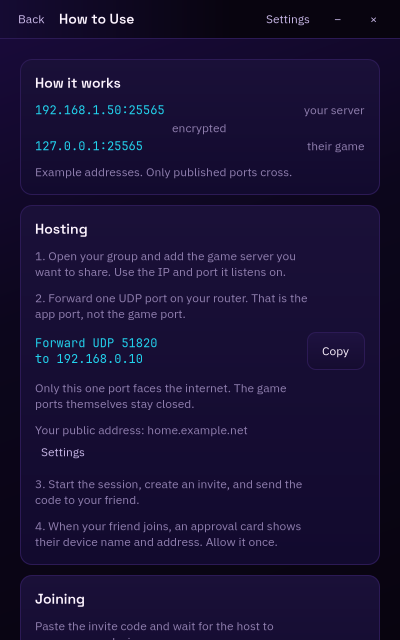
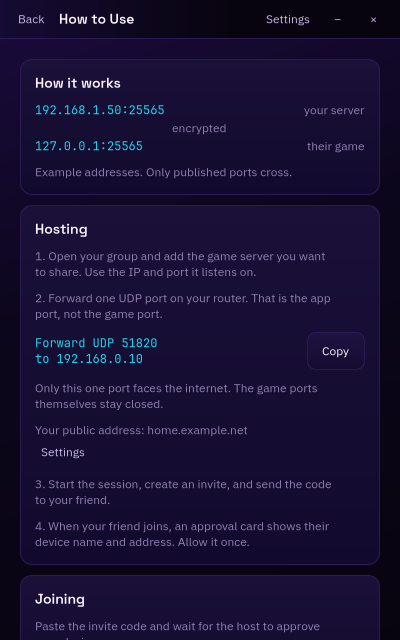
Used the wider 300px measure for guide and group descriptions
Every descriptive paragraph in How to Use, the Host and the Friend screens now shares the same 300px text column, so the lines reach further across the card and the right edge stays consistent. The indented setting descriptions keep their 280px measure.

diff --git a/internal/gtkui/guide.go b/internal/gtkui/guide.go
@@ -33,7 +33,7 @@ func (u *probeUI) buildGuidePage() *gtk.ScrolledWindow {
 	how.Append(gapBox(2))
 	how.Append(guideAddressRow("127.0.0.1:25565", "their game"))
 	how.Append(gapBox(10))
-	how.Append(measuredText("Example addresses. Only published ports cross.", "desc"))
+	how.Append(cardText("Example addresses. Only published ports cross.", "desc"))
 	page.Append(how)
 
 	hosting := gtk.NewBox(gtk.OrientationVertical, 0)
@@ -41,9 +41,9 @@ func (u *probeUI) buildGuidePage() *gtk.ScrolledWindow {
 	hosting.SetMarginBottom(10)
 	hosting.Append(textLabel("Hosting", "card-title"))
 	hosting.Append(gapBox(10))
-	hosting.Append(measuredText("1. Open your group and add the game server you want to share. Use the IP and port it listens on.", "desc"))
+	hosting.Append(cardText("1. Open your group and add the game server you want to share. Use the IP and port it listens on.", "desc"))
 	hosting.Append(gapBox(10))
-	hosting.Append(measuredText("2. Forward one UDP port on your router. That is the app port, not the game port.", "desc"))
+	hosting.Append(cardText("2. Forward one UDP port on your router. That is the app port, not the game port.", "desc"))
 	hosting.Append(gapBox(10))
 
 	copyButton := gtk.NewButtonWithLabel("Copy")
@@ -59,14 +59,14 @@ func (u *probeUI) buildGuidePage() *gtk.ScrolledWindow {
 	ruleRow.Append(copyButton)
 	hosting.Append(ruleRow)
 	hosting.Append(gapBox(10))
-	hosting.Append(measuredText("Only this one port faces the internet. The game ports themselves stay closed.", "desc"))
+	hosting.Append(cardText("Only this one port faces the internet. The game ports themselves stay closed.", "desc"))
 	hosting.Append(gapBox(10))
 
 	addressLine := "No public address set yet. Open Settings and fill it in."
 	if strings.TrimSpace(settings.PublicAddress) != "" {
 		addressLine = "Your public address: " + settings.PublicAddress
 	}
-	hosting.Append(measuredText(addressLine, "desc"))
+	hosting.Append(cardText(addressLine, "desc"))
 	settingsButton := gtk.NewButtonWithLabel("Settings")
 	settingsButton.AddCSSClass("quiet")
 	settingsButton.SetHAlign(gtk.AlignStart)
@@ -75,9 +75,9 @@ func (u *probeUI) buildGuidePage() *gtk.ScrolledWindow {
 	})
 	hosting.Append(settingsButton)
 	hosting.Append(gapBox(10))
-	hosting.Append(measuredText("3. Start the session, create an invite, and send the code to your friend.", "desc"))
+	hosting.Append(cardText("3. Start the session, create an invite, and send the code to your friend.", "desc"))
 	hosting.Append(gapBox(10))
-	hosting.Append(measuredText("4. When your friend joins, an approval card shows their device name and address. Allow it once.", "desc"))
+	hosting.Append(cardText("4. When your friend joins, an approval card shows their device name and address. Allow it once.", "desc"))
 	page.Append(hosting)
 
 	joining := gtk.NewBox(gtk.OrientationVertical, 0)
@@ -85,9 +85,9 @@ func (u *probeUI) buildGuidePage() *gtk.ScrolledWindow {
 	joining.SetMarginBottom(10)
 	joining.Append(textLabel("Joining", "card-title"))
 	joining.Append(gapBox(10))
-	joining.Append(measuredText("Paste the invite code and wait for the host to approve your device.", "desc"))
+	joining.Append(cardText("Paste the invite code and wait for the host to approve your device.", "desc"))
 	joining.Append(gapBox(10))
-	joining.Append(measuredText("Open the game, then use the address shown under Ready to play. For Minecraft Java that is usually Direct Connect.", "desc"))
+	joining.Append(cardText("Open the game, then use the address shown under Ready to play. For Minecraft Java that is usually Direct Connect.", "desc"))
 	page.Append(joining)
 
 	problems := gtk.NewBox(gtk.OrientationVertical, 0)
@@ -95,17 +95,17 @@ func (u *probeUI) buildGuidePage() *gtk.ScrolledWindow {
 	problems.SetMarginBottom(10)
 	problems.Append(textLabel("Problems", "card-title"))
 	problems.Append(gapBox(10))
-	problems.Append(measuredText("A friend can't reach you", "setting-title"))
-	problems.Append(measuredText("Check the public address in Settings, the UDP rule on your router, and the firewall on this PC. A VPN on the host can also hide the address. If your router's WAN address differs from your public address, your ISP may use carrier-grade NAT; this version has no relay, so direct hosting will not work.", "desc"))
+	problems.Append(cardText("A friend can't reach you", "setting-title"))
+	problems.Append(cardText("Check the public address in Settings, the UDP rule on your router, and the firewall on this PC. A VPN on the host can also hide the address. If your router's WAN address differs from your public address, your ISP may use carrier-grade NAT; this version has no relay, so direct hosting will not work.", "desc"))
 	problems.Append(gapBox(10))
-	problems.Append(measuredText("Your public address changed", "setting-title"))
-	problems.Append(measuredText("Update it in Settings. Old invites still point at the old address, so create new ones after the change.", "desc"))
+	problems.Append(cardText("Your public address changed", "setting-title"))
+	problems.Append(cardText("Update it in Settings. Old invites still point at the old address, so create new ones after the change.", "desc"))
 	problems.Append(gapBox(10))
-	problems.Append(measuredText("A port is already in use", "setting-title"))
-	problems.Append(measuredText("The friend app tries the next local port and shows the address it actually got. The host's published port does not change.", "desc"))
+	problems.Append(cardText("A port is already in use", "setting-title"))
+	problems.Append(cardText("The friend app tries the next local port and shows the address it actually got. The host's published port does not change.", "desc"))
 	problems.Append(gapBox(10))
-	problems.Append(measuredText("An invite expired or was already used", "setting-title"))
-	problems.Append(measuredText("Create a new invite. Codes work once and expire after 24 hours.", "desc"))
+	problems.Append(cardText("An invite expired or was already used", "setting-title"))
+	problems.Append(cardText("Create a new invite. Codes work once and expire after 24 hours.", "desc"))
 	page.Append(problems)
 
 	security := gtk.NewBox(gtk.OrientationVertical, 0)
@@ -113,17 +113,17 @@ func (u *probeUI) buildGuidePage() *gtk.ScrolledWindow {
 	security.SetMarginBottom(10)
 	security.Append(textLabel("Security", "card-title"))
 	security.Append(gapBox(10))
-	security.Append(measuredText("Invites are single use, expire after 24 hours, and need the host to be online when they are redeemed.", "desc"))
+	security.Append(cardText("Invites are single use, expire after 24 hours, and need the host to be online when they are redeemed.", "desc"))
 	security.Append(gapBox(10))
-	security.Append(measuredText("The host approves each device. A different device key asks again.", "desc"))
+	security.Append(cardText("The host approves each device. A different device key asks again.", "desc"))
 	security.Append(gapBox(10))
-	security.Append(measuredText("Only the services you publish exist. Friends cannot reach your router, your other devices, or each other.", "desc"))
+	security.Append(cardText("Only the services you publish exist. Friends cannot reach your router, your other devices, or each other.", "desc"))
 	security.Append(gapBox(10))
-	security.Append(measuredText("Keep invite codes private. Anyone with a code can try to redeem it.", "desc"))
+	security.Append(cardText("Keep invite codes private. Anyone with a code can try to redeem it.", "desc"))
 	page.Append(security)
 
 	page.Append(gapBox(10))
-	page.Append(measuredText("App port "+strconv.Itoa(settings.AppPort)+" · UDP", "desc"))
+	page.Append(cardText("App port "+strconv.Itoa(settings.AppPort)+" · UDP", "desc"))
 
 	scroll := gtk.NewScrolledWindow()
 	scroll.SetPolicy(gtk.PolicyNever, gtk.PolicyAutomatic)
@@ -141,12 +141,6 @@ func guideAddressRow(address, note string) *gtk.Box {
 	return row
 }
 
-func measuredText(text, class string) *gtk.Label {
-	label := textLabel(text, class)
-	label.SetSizeRequest(descriptionWidth, -1)
-	return label
-}
-
 func localIPv4() string {
 	addrs, err := net.InterfaceAddrs()
 	if err != nil {
@@ -162,4 +156,12 @@ func localIPv4() string {
 		}
 	}
 	return "this PC"
+}
+
+const cardTextWidth = 300
+
+func cardText(text, class string) *gtk.Label {
+	label := textLabel(text, class)
+	label.SetSizeRequest(cardTextWidth, -1)
+	return label
 }

diff --git a/internal/gtkui/group.go b/internal/gtkui/group.go
@@ -48,7 +48,7 @@ func (u *probeUI) buildGroupContent(g group.Group) *gtk.Box {
 		})
 		page.Append(leave)
 		page.Append(gapBox(4))
-		page.Append(measuredText("This ends any running session and revokes every member.", "desc"))
+		page.Append(cardText("This ends any running session and revokes every member.", "desc"))
 	} else {
 		page.Append(u.friendSessionCard(g, showError))
 		page.Append(sectionTitle("Ready to play", ""))
@@ -64,7 +64,7 @@ func (u *probeUI) buildGroupContent(g group.Group) *gtk.Box {
 		})
 		page.Append(leave)
 		page.Append(gapBox(4))
-		page.Append(measuredText("This removes the saved group and its device key from this PC.", "desc"))
+		page.Append(cardText("This removes the saved group and its device key from this PC.", "desc"))
 	}
 
 	return page
@@ -107,12 +107,12 @@ func (u *probeUI) hostSessionCard(g group.Group, showError func(error)) *gtk.Box
 	top.Append(action)
 	card.Append(top)
 	card.Append(gapBox(10))
-	card.Append(measuredText("Hosting as "+g.HostName+" · "+plural(len(g.Members), "member"), "desc"))
+	card.Append(cardText("Hosting as "+g.HostName+" · "+plural(len(g.Members), "member"), "desc"))
 	card.Append(gapBox(8))
 
 	endpoint, err := u.state.CurrentEndpoint()
 	if err != nil {
-		card.Append(measuredText("No public address — friends can't join.", "warning"))
+		card.Append(cardText("No public address — friends can't join.", "warning"))
 	} else {
 		addr := lineLabel(endpoint, "mono")
 		addr.SetHExpand(true)
@@ -126,7 +126,7 @@ func (u *probeUI) hostSessionCard(g group.Group, showError func(error)) *gtk.Box
 		row.Append(change)
 		card.Append(row)
 	}
-	card.Append(measuredText("UDP "+strconv.Itoa(u.state.Settings().AppPort)+" on this PC", "desc"))
+	card.Append(cardText("UDP "+strconv.Itoa(u.state.Settings().AppPort)+" on this PC", "desc"))
 	card.Append(gapBox(6))
 	if live {
 		presence := u.state.HostPresence()
@@ -136,9 +136,9 @@ func (u *probeUI) hostSessionCard(g group.Group, showError func(error)) *gtk.Box
 				connected++
 			}
 		}
-		card.Append(measuredText(fmt.Sprintf("%d connected", connected), "desc"))
+		card.Append(cardText(fmt.Sprintf("%d connected", connected), "desc"))
 	} else {
-		card.Append(measuredText("not running", "desc"))
+		card.Append(cardText("not running", "desc"))
 	}
 	return card
 }
@@ -146,7 +146,7 @@ func (u *probeUI) hostSessionCard(g group.Group, showError func(error)) *gtk.Box
 func (u *probeUI) hostServices(g group.Group) *gtk.Box {
 	box := gtk.NewBox(gtk.OrientationVertical, 0)
 	if len(g.Services) == 0 {
-		box.Append(measuredText("Nothing published yet. Add the game server you want friends to reach.", "desc"))
+		box.Append(cardText("Nothing published yet. Add the game server you want friends to reach.", "desc"))
 		return box
 	}
 	for i, s := range g.Services {
@@ -168,11 +168,11 @@ func (u *probeUI) hostServiceCard(s group.Service) *gtk.Box {
 	top.Append(tagLabel(protoName(s.Proto)))
 	card.Append(top)
 	card.Append(gapBox(8))
-	card.Append(measuredText("Friends open 127.0.0.1:"+group.FormatPorts(s.Ports), "desc"))
-	card.Append(measuredText("On your LAN "+s.Target, "desc"))
+	card.Append(cardText("Friends open 127.0.0.1:"+group.FormatPorts(s.Ports), "desc"))
+	card.Append(cardText("On your LAN "+s.Target, "desc"))
 	if s.Hint != "" {
 		card.Append(gapBox(6))
-		card.Append(measuredText(s.Hint, "desc"))
+		card.Append(cardText(s.Hint, "desc"))
 	}
 	return card
 }
@@ -197,7 +197,7 @@ func (u *probeUI) hostPeople(g group.Group) *gtk.Box {
 	}
 	if len(g.Members) == 0 {
 		box.Append(gapBox(8))
-		box.Append(measuredText("No friends yet. Create an invite when you're ready.", "desc"))
+		box.Append(cardText("No friends yet. Create an invite when you're ready.", "desc"))
 	}
 	return box
 }
@@ -206,7 +206,7 @@ func (u *probeUI) hostInvites(g group.Group) *gtk.Box {
 	box := gtk.NewBox(gtk.OrientationVertical, 0)
 	open := g.OpenInvites(time.Now())
 	if len(open) == 0 {
-		box.Append(measuredText("No open invites.", "desc"))
+		box.Append(cardText("No open invites.", "desc"))
 		return box
 	}
 	for i, inv := range open {
@@ -265,13 +265,13 @@ func (u *probeUI) friendSessionCard(g group.Group, showError func(error)) *gtk.B
 	top.Append(action)
 	card.Append(top)
 	card.Append(gapBox(10))
-	card.Append(measuredText("Hosted by "+g.HostName, "desc"))
+	card.Append(cardText("Hosted by "+g.HostName, "desc"))
 	if live {
-		card.Append(measuredText(presence.RTT.Round(time.Millisecond).String(), "desc"))
+		card.Append(cardText(presence.RTT.Round(time.Millisecond).String(), "desc"))
 	} else if note := u.state.FriendNote(); note != "" {
-		card.Append(measuredText(note, "desc"))
+		card.Append(cardText(note, "desc"))
 	} else {
-		card.Append(measuredText("Start the session on the host, then reconnect.", "desc"))
+		card.Append(cardText("Start the session on the host, then reconnect.", "desc"))
 	}
 	return card
 }
@@ -281,7 +281,7 @@ func (u *probeUI) friendServices(g group.Group) *gtk.Box {
 	live := u.state.LiveGroupID() == g.ID && u.state.FriendPresence().Live
 	if !live {
 		if len(g.Services) == 0 {
-			box.Append(measuredText("No service open. The host has not published anything yet.", "desc"))
+			box.Append(cardText("No service open. The host has not published anything yet.", "desc"))
 			return box
 		}
 		for i, s := range g.Services {
@@ -295,7 +295,7 @@ func (u *probeUI) friendServices(g group.Group) *gtk.Box {
 
 	bounds := u.state.FriendBounds()
 	if len(bounds) == 0 {
-		box.Append(measuredText("No service open. The host has not published anything yet.", "desc"))
+		box.Append(cardText("No service open. The host has not published anything yet.", "desc"))
 		return box
 	}
 	for i, b := range bounds {
@@ -311,15 +311,15 @@ func (u *probeUI) friendServices(g group.Group) *gtk.Box {
 		top.Append(tagLabel(protoName(b.Proto)))
 		card.Append(top)
 		card.Append(gapBox(8))
-		card.Append(measuredText(b.Address, "mono"))
+		card.Append(cardText(b.Address, "mono"))
 		if b.Error != "" {
-			card.Append(measuredText(b.Error, "warning"))
+			card.Append(cardText(b.Error, "warning"))
 		} else if b.Port != b.PublishedPort {
-			card.Append(measuredText(fmt.Sprintf("Port %d was busy; this game uses %d.", b.PublishedPort, b.Port), "desc"))
+			card.Append(cardText(fmt.Sprintf("Port %d was busy; this game uses %d.", b.PublishedPort, b.Port), "desc"))
 		}
 		if b.Hint != "" {
 			card.Append(gapBox(6))
-			card.Append(measuredText(b.Hint, "desc"))
+			card.Append(cardText(b.Hint, "desc"))
 		}
 		box.Append(card)
 	}
@@ -336,11 +336,11 @@ func (u *probeUI) offlineFriendServiceCard(s group.Service) *gtk.Box {
 	top.Append(tagLabel(protoName(s.Proto)))
 	card.Append(top)
 	card.Append(gapBox(8))
-	card.Append(measuredText("Port "+group.FormatPorts(s.Ports), "desc"))
-	card.Append(measuredText("Host offline. Reconnect when the host is back.", "desc"))
+	card.Append(cardText("Port "+group.FormatPorts(s.Ports), "desc"))
+	card.Append(cardText("Host offline. Reconnect when the host is back.", "desc"))
 	if s.Hint != "" {
 		card.Append(gapBox(6))
-		card.Append(measuredText(s.Hint, "desc"))
+		card.Append(cardText(s.Hint, "desc"))
 	}
 	return card
 }
@@ -373,7 +373,7 @@ func personCard(name, detail string, live bool, role string) *gtk.Box {
 		title.Append(tagLabel(role))
 	}
 	text.Append(title)
-	text.Append(measuredText(detail, "desc"))
+	text.Append(cardText(detail, "desc"))
 	card.Append(text)
 	return card
 }

diff --git a/internal/gtkui/probe.go b/internal/gtkui/probe.go
@@ -412,7 +412,7 @@ func (u *probeUI) buildHomeContent() *gtk.Box {
 		page.Append(section)
 		empty := gtk.NewBox(gtk.OrientationVertical, 0)
 		empty.AddCSSClass("card")
-		empty.Append(measuredText("Nothing saved yet. Hosted and joined groups appear here.", "desc"))
+		empty.Append(cardText("Nothing saved yet. Hosted and joined groups appear here.", "desc"))
 		page.Append(empty)
 	}
 
